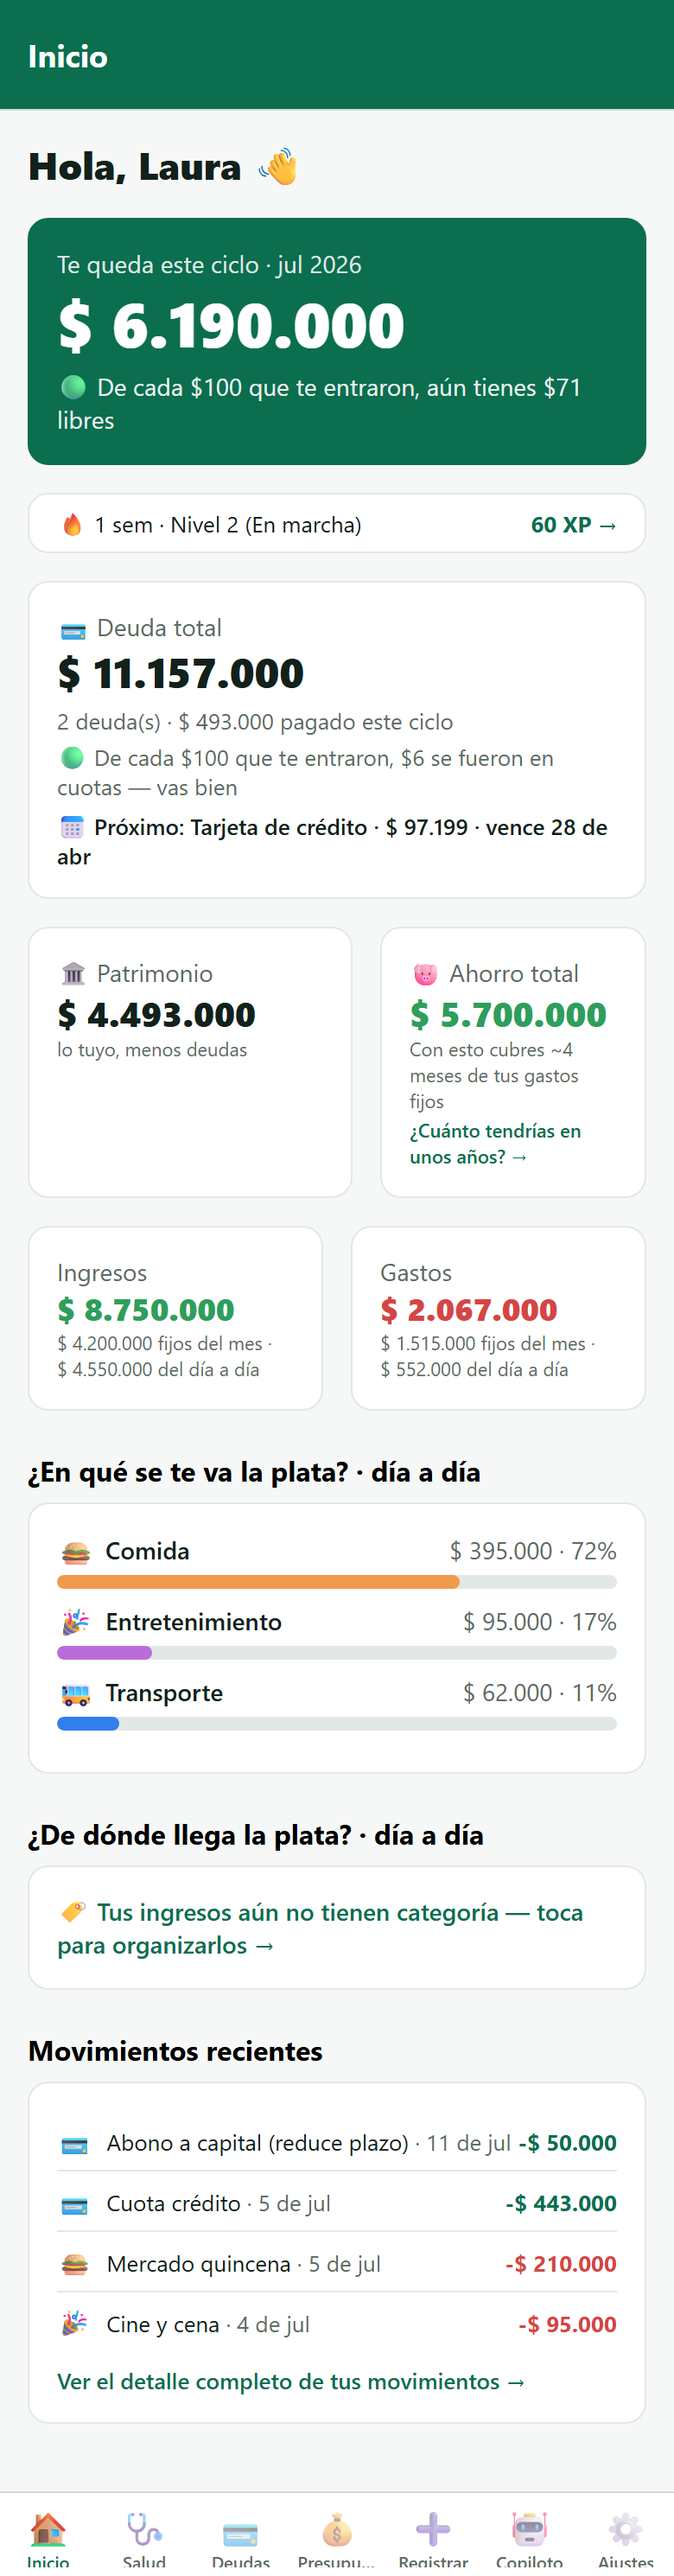
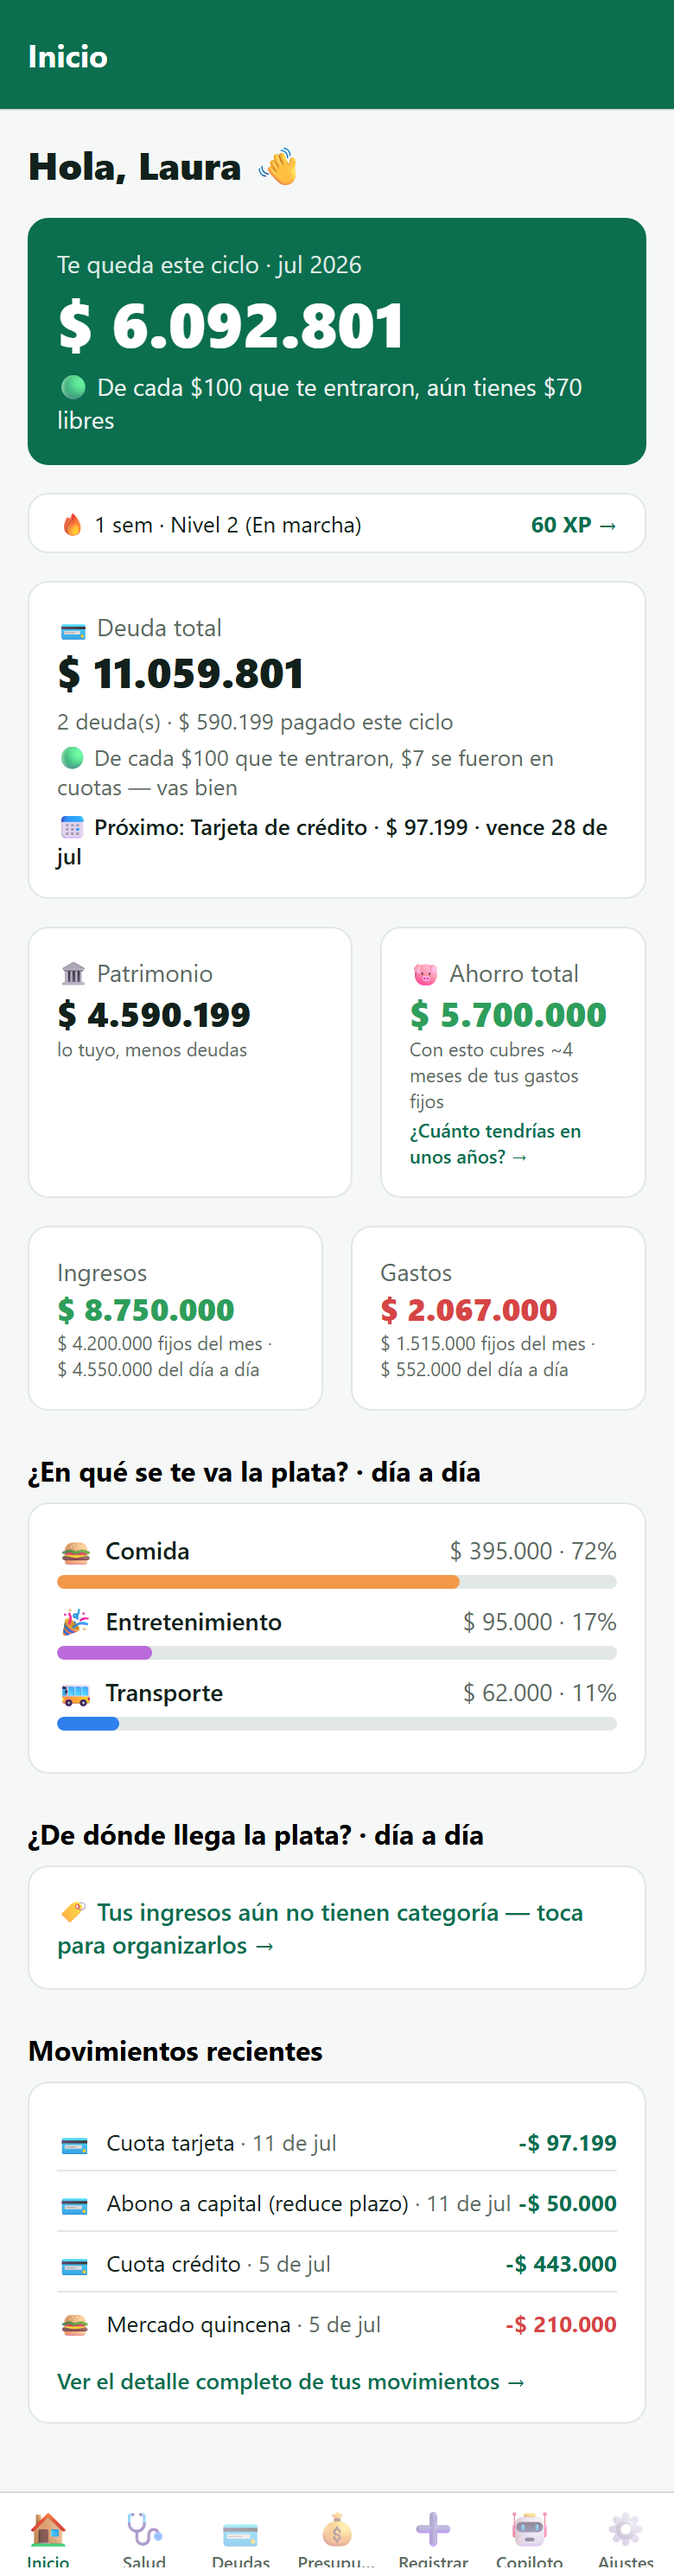
docs(fin-018): IMP-0018 v1.1 — pieza 8 + análisis narrativo + captura final con fecha corregida

diff --git a/docs/roadmap/BACKLOG.md b/docs/roadmap/BACKLOG.md
@@ -24,7 +24,7 @@ Leyenda: ✅ hecho · ⏳ pendiente · 🔄 en curso · ➖ no aplica
 | FIN-015 | Proyección de ahorro con interés compuesto (simulación ilustrativa, sin producto de rendimiento real) | Media | ✅ ARQ-0015 | ✅ AUD-0015 | ✅ DEC-0015 | ✅ IMP-0015 | **Cerrado (regularización extraordinaria).** Validado por el CTO contra commit `6f622e3` en checkout aislado — sin hallazgos |
 | FIN-016 | Periodo financiero / ciclo de pago (día de corte) para Presupuesto y Dashboard | Media | ✅ ARQ-0016 | ✅ AUD-0016 | ✅ DEC-0016 | ✅ IMP-0016 | **Cerrado (regularización extraordinaria).** Validado por el CTO contra commit `40700bc` en checkout aislado — invariante de aislamiento del Score confirmada por grep |
 | FIN-017 | Mejora de UX — Login y Dashboard (Lote 01) · **Origen: Mejora de revisión de producto** | Alta | ✅ ARQ-0017 v1.3 | ✅ AUD-0017 | ✅ DEC-0017 (+confirmaciones §7.2) | ✅ IMP-0017 | **Cerrado.** Validado por el CTO contra commit `e914e85` (código) y `52e559a` (IMP-0017): correspondencia exacta DEC→IMP→Código→Evidencia verificada — grep de las 6 cadenas de glosario/pilares con los conteos exactos declarados (`Te queda este ciclo`=1, `lo tuyo, menos deudas`=1, `fijos del mes`=1, `del día a día`=1, `pagado este ciclo`=1, `Flujo estimado`=0, 4 pilares del Login=4), capturas reales antes/después vistas visualmente por el CTO, `DEBT_RATIO_CUTS` (0,20/0,35) confirmado en `score.util.ts`, tarjeta de Deuda con cifra única (`debtPayments`) confirmada en `DashboardScreen.tsx`. Limitación de entorno conocida (ICU/Postgres del sandbox) impide ejecutar la suite en vivo — verificación estática exhaustiva aceptada, mismo precedente que FIN-012/013-016. Próximo paso: revisión integral de la experiencia completa (scroll de principio a fin) antes de decidir si Inicio necesita `FIN-018` o avanza a la Experiencia de Salud |
-| FIN-018 | Evolución de la experiencia Inicio (2ª iteración, mismo alcance Login+Dashboard) · **Origen: Mejora de revisión de producto** | Alta | ✅ ARQ-0018 | ✅ AUD-0018 | ✅ DEC-0018 (+adendo §6.1) | ➖ | **Decidido — autorizado a implementación completa.** Aprobadas: L1-A (Crear cuenta primario), D1-A (formato "$ de cada $100" en verde), D3-B (próximo pago integrado en la tarjeta de Deuda, absorbe D6), D5-A (quitar filas repetidas), D7-B (invitación accionable), y — por adendo del CPSAO — la compactación de "Movimientos recientes" (3-4 filas + enlace de transición a vista de detalle, no un simple "ver más"), resolviendo D8/D9 como cierre narrativo del recorrido. Arquitectura debe documentar en `IMP-0018` un juicio razonado sobre si el usuario termina el recorrido entendiendo mejor su situación financiera. Corrección no bloqueante pendiente: ajustar en el ARQ la redacción del riesgo de D3-B (`DebtsListScreen.tsx` no muestra `nextDueDate`, verificado). Ver `docs/oficial/DEC-0018-Evolucion-Inicio.md` |
+| FIN-018 | Evolución de la experiencia Inicio (2ª iteración, mismo alcance Login+Dashboard) · **Origen: Mejora de revisión de producto** | Alta | ✅ ARQ-0018 | ✅ AUD-0018 | ✅ DEC-0018 (+adendo §9) | ✅ IMP-0018 (parcial) | **Validado por el CTO, NO cerrada — 3ª iteración autorizada antes de cerrar.** Las 7 piezas de IMP-0018 verificadas en código y en captura real (commit `c5ac7c7`): L1-A, D1-A, D3-B/D6, D5-A, D7-B, Movimientos compactados. El CPSAO revisó las capturas y pidió, antes de autorizar el paso a Salud: (1) corregir `nextDueDate` para que avance con pagos regulares, no solo con prepago — reclasificado como riesgo de UX, no solo defecto técnico de Deudas (verificado en `transactions.service.ts`: un pago normal nunca actualiza `nextDueDate`); (2) que Arquitectura evalúe si el recorrido guía hacia "¿qué debería hacer ahora?", no solo "¿cómo estoy?"; (3) una **Revisión de Comprensión (RC)** del Auditor — nuevo mecanismo permanente ratificado por el Fundador (Gobernanza v3.8 §30), separado de la Alpha Cerrada. Ver `docs/oficial/DEC-0018-Evolucion-Inicio.md` §9 |
 
 ## Hoja de ruta de experiencias UX (orden acordado con el CPSAO, 2026-07-11)
 
@@ -197,3 +197,4 @@ documento maestro.
 - 2026-07-11 — Auditor: generado `docs/auditoria/AUD-0018-Evolucion-Inicio.md`. Verificó las 6 piezas comprometidas (L1, D1, D3, D5, D6, D7) contra las capturas reales de scroll completo (todas confirmadas, incluida la duplicación literal de "$6.190.000" y los totales fijos repetidos) y contra el código (`auth.store.ts` con SecureStore+refresh sostiene L1; `debts.service.ts` expone `upcoming[].dueDate` que `DashboardScreen.tsx` no renderiza, confirmando D6). Verificación destacada: confirmó en `dashboard.service.ts` que el Hallazgo crítico de `AUD-017` (mezcla de periodo/numerador del DTI) está genuinamente resuelto — `interpretDebt`/`interpretCashflow` calculan con `debtPayments`/`incomeTotal` del propio ciclo, reutilizando de `score.util.ts` solo los cortes estáticos `DEBT_RATIO_CUTS` (cero llamadas a `HealthService`/Score) — implementa exactamente la "ruta (a)" de `DEC-0017 §5.1` y cumple §29.1/§29.2 (Gobernanza v3.7) de forma demostrable; D1 extiende el mismo patrón sin reabrir el problema. Único hallazgo, no bloqueante: la mitigación que el propio ARQ declara para el riesgo de D3-B ("pestaña Deudas... línea del más urgente siempre visible") no está del todo respaldada — verificado que `DebtsListScreen.tsx` muestra `payoffDate` (fecha de término), no `nextDueDate` (próximo pago) por deuda. Veredicto: **APROBADO CON OBSERVACIONES**. FIN-018 pasa a *Auditado — APROBADO CON OBSERVACIONES; en espera de DEC-018*.
 - 2026-07-11 — Desarrollo: **las 5 piezas autorizadas por DEC-018 implementadas y verificadas en vivo** (L1-A, D1-A, D3-B con D6 absorbida, D5-A, D7-B) + ARQ-0018 v1.1 con la corrección de redacción del §10 pedida por el CTO (la lista de Deudas muestra `payoffDate`, no `nextDueDate`; mejora futura registrada fuera de ciclo). Suite 299/299. **Observación nueva para el equipo, destapada por D3-B/D6**: al hacer visible la fecha, el "próximo pago" de una deuda SIN pagos registrados muestra una fecha vencida ("vence 28 de abr" en julio) — `nextDueDate` no avanza solo con el paso del tiempo, únicamente con pagos. No es regresión (la sección vieja usaba el mismo dato, solo que sin mostrar la fecha); corregir el avance de `nextDueDate` pertenece al dominio de deudas/recordatorios, fuera del alcance de FIN-018 — se presenta para evaluación, no se auto-corrige. IMP-0018 queda a la espera de: (a) confirmación del CTO sobre la corrección §10 y (b) respuesta del CPSAO sobre la propuesta §5 (Movimientos recientes).
 - 2026-07-11 — Desarrollo: **IMP-0018 emitido — FIN-018 entregado completo (7/7 piezas)**. Referencia inmutable `82caa0d332b918562fe7be6aaf8deccdeee57a94` (código en `3fb4072` + `82caa0d`). Pieza 7 implementada con los 2 criterios del CPSAO: 4 filas densas en una tarjeta y enlace de transición NO genérico — "Ver el detalle completo de tus movimientos →" (alternativa "Ver todos" descartada y documentada en ARQ §4.8). **El recorrido completo pasó de 2020px a 1490px (−26%) sin perder información.** Cumplimiento §13 completo con capturas de scroll completo antes (`revision-inicio/`) y después (`fin-018/`), grep de criterios (📌=0, sección Próximos pagos=0 en UI, enlace=1, CTAs del Login en orden), suite 299/299, typecheck y bundle Android OK. **Juicio razonado del criterio 2 documentado en IMP §4**: el arco completo ahora sostiene la comprensión (cada bloque responde una pregunta en orden de urgencia; el cierre es transición deliberada), con dos reservas honestas fuera del alcance: la fecha vencida de `nextDueDate` (única línea que puede generar pregunta) y la ubicación de la gamificación (D2, decisión de narrativa pendiente del CPSAO). FIN-018 pasa a *Entregado — en VALIDACIÓN (Auditor) y cierre del CTO*.
+- 2026-07-11 — Desarrollo: **tercera entrega de FIN-018 — IMP-0018 v1.1** (referencia inmutable `8c42edf5cc2118e3ca71a7f2614532a1be4df8d7`; código en `3fb4072` + `82caa0d` + `8c42edf`). (1) **Pieza 8 — nextDueDate**: el UPDATE atómico del pago normal avanza la fecha hasta la próxima ocurrencia FUTURA conservando el día ancla (con k meses de atraso salta k+1; "+1 mes" a secas seguiría vencida) y la limpia al saldar; las rutas de FIN-012 ya eran correctas. E2E versionado `fin018-next-due-date.e2e-spec.ts` 3/3 contra BD real (vencida→futura con día ancla, futura→+1 mes exacto, saldada→NULL) + verificación con datos reales de la demo: la tarjeta pasó de "vence 28 de abr" a "vence 28 de jul" al registrar la cuota — captura final retomada con ese estado. Semántica declarada (ARQ §4.9): un pago normaliza la fecha visible; mora acumulada fuera de alcance. (2) **Análisis narrativo (ARQ §5.1)**: tabla responde/empuja por bloque — el orden ya guía; el hueco está localizado en hero y deuda ("responden pero no proponen": la pantalla dice "te quedan $71 libres" y "tu tarjeta está al 26% EA" sin conectar ambas frases); propuesta mínima documentada SIN implementar (línea condicional "Tienes margen — simula un abono →" hacia el detalle donde FIN-012 ya existe) junto a la alternativa de no añadir nada — decisión de producto CPSAO/CTO. E2E 6/6; suite 299/299. FIN-018 pasa a *Entregado v1.1 — en Revisión de Comprensión (Auditor) y cierre del CTO*.

diff --git a/docs/implementaciones/IMP-0018-Evolucion-Inicio.md b/docs/implementaciones/IMP-0018-Evolucion-Inicio.md
@@ -1,24 +1,45 @@
 # IMP-0018 · Evolución de la experiencia Inicio (segunda iteración)
 
-- **Versión:** 1.0
+- **Versión:** 1.1
 - **Fecha:** 2026-07-11
 - **Autor:** Agente Arquitecto/Desarrollador
-- **Estado:** Entregado — a la espera de VALIDACIÓN (Auditor) y cierre del CTO
+- **Estado:** Entregado (v1.1, tercera entrega incluida) — a la espera de la Revisión de Comprensión (Auditor) y cierre del CTO
 - **Historial de cambios:**
   - v1.0 (2026-07-11) — emisión con el alcance COMPLETO de DEC-018 (+ adendo §6.1).
+  - v1.1 (2026-07-11) — tercera entrega pedida por CTO/CPSAO tras validar v1.0:
+    **pieza 8** (avance de `nextDueDate` al registrar pagos, ARQ §4.9) implementada
+    con E2E versionado, y **análisis narrativo** documentado en ARQ §5.1. Captura
+    del Dashboard retomada con la fecha ya corregida en datos reales.
 - **Módulo/Feature:** FIN-018 · **Origen (v3.5 §27):** Mejora de revisión de producto
-- **Documentos base:** `ARQ-0018-Evolucion-Inicio.md` v1.2 · `AUD-0018` · `DEC-0018` (+ adendo §6.1: pieza 7 incorporada por el CPSAO)
-- **Referencia inmutable (regla GOBERNANZA):** commit **`82caa0d332b918562fe7be6aaf8deccdeee57a94`**
-  - Código en 2 commits: `3fb4072` (5 piezas: L1-A, D1-A, D3-B+D6, D5-A, D7-B) y
-    `82caa0d` (pieza 7: Movimientos compactados). Correcciones triviales L2/D4
-    previas en `4223e11` (fuera de este ciclo, ya verificadas por el CTO).
+- **Documentos base:** `ARQ-0018-Evolucion-Inicio.md` v1.3 · `AUD-0018` · `DEC-0018` (+ adendo §6.1) · instrucción CTO/CPSAO de tercera entrega
+- **Referencia inmutable (regla GOBERNANZA):** commit **`8c42edf5cc2118e3ca71a7f2614532a1be4df8d7`**
+  - Código en 3 commits: `3fb4072` (5 piezas: L1-A, D1-A, D3-B+D6, D5-A, D7-B),
+    `82caa0d` (pieza 7: Movimientos compactados) y `8c42edf` (pieza 8: nextDueDate
+    + ARQ v1.3). Correcciones triviales L2/D4 previas en `4223e11` (fuera de este
+    ciclo, ya verificadas por el CTO).
 
 ## 1. Resumen
-Las 7 piezas de DEC-018 implementadas. El recorrido completo de Inicio pasó de
-**2020px a 1490px lógicos (−26%)** eliminando una sección entera (Próximos pagos,
-absorbida con fecha en la tarjeta de deuda), las filas duplicadas de fijos, el ruido
-de "Sin categoría · 100%" y la cola de 8 tarjetas de movimientos — sin perder ningún
-dato (todo lo removido vive a un tap, con transición explícita).
+Las **8 piezas** de FIN-018 implementadas (7 de DEC-018 + la corrección de
+`nextDueDate` incorporada por el CPSAO tras validar v1.0). El recorrido completo de
+Inicio pasó de **2020px a 1490px lógicos (−26%)** eliminando una sección entera
+(Próximos pagos, absorbida con fecha en la tarjeta de deuda), las filas duplicadas
+de fijos, el ruido de "Sin categoría · 100%" y la cola de 8 tarjetas de movimientos
+— sin perder ningún dato. Y el dato más visible de la tarjeta de deuda (el próximo
+pago) ya no puede quedar vencido tras un pago.
+
+**Pieza 8 — `nextDueDate` (v1.1):** el `UPDATE` atómico del pago normal ahora
+avanza la fecha hasta la próxima ocurrencia FUTURA conservando el día ancla (con
+atraso de k meses salta k+1 — "+1 mes" a secas seguiría vencida) y la limpia al
+saldar. E2E versionado `test/fin018-next-due-date.e2e-spec.ts` (3/3 contra BD
+real). Verificado además con los datos reales de la demo: la tarjeta pasó de
+"vence 28 de abr" (vencida) a "vence 28 de jul" al registrar la cuota — la captura
+final refleja este estado. Semántica declarada en ARQ §4.9: un pago normaliza la
+fecha visible; la gestión de mora acumulada queda fuera de alcance.
+
+**Análisis narrativo (v1.1, ARQ §5.1):** el orden del recorrido ya guía bien; el
+hueco está localizado en hero y deuda ("responden pero no proponen"). Propuesta
+mínima documentada SIN implementar (línea condicional "Tienes margen — simula un
+abono →") junto a la alternativa de no añadir nada — decisión de producto.
 
 ## 2. Archivos modificados
 - **Backend** — `dashboard.service.ts`: texto verde de `interpretCashflow` en formato
@@ -67,13 +88,14 @@ sin valor, y el cierre es una transición deliberada, no un final por agotamient
 El usuario que llega al fondo tiene más comprensión, no solo más datos — la pantalla
 ahora es ejecutiva de punta a punta.
 
-**Reservas (documentadas, fuera de mi alcance de decisión):** (1) la fecha vencida
-del "Próximo" pago cuando una deuda no registra pagos (§5, `nextDueDate` estático)
-es hoy el único texto de la pantalla que puede generar una pregunta en vez de
-responderla; (2) la línea de gamificación entre el hero y la deuda (D2) sigue
-pendiente de la decisión de narrativa del CPSAO. Ninguna de las dos impide el
-veredicto positivo; ambas marcan el borde exacto donde una siguiente iteración
-tendría tracción real.
+**Reservas (actualizadas en v1.1):** (1) ~~la fecha vencida del "Próximo" pago~~ —
+**resuelta por la pieza 8**: tras un pago la fecha siempre queda futura (verificado
+en datos reales); persiste solo el caso de una deuda que NUNCA registra pagos, cuyo
+tratamiento pertenece al dominio de mora (fuera de alcance, declarado en ARQ §4.9);
+(2) la línea de gamificación entre el hero y la deuda (D2) sigue pendiente de la
+decisión de narrativa del CPSAO; (3) nueva, del análisis §5.1: hero y deuda
+responden pero no proponen — el puente hacia "¿qué hago ahora?" queda propuesto
+para decisión de producto. Ninguna impide el veredicto positivo.
 
 ## 5. Incidencias
 - **Destapada por D3-B/D6 y reportada al equipo (no auto-corregida):** `nextDueDate`
